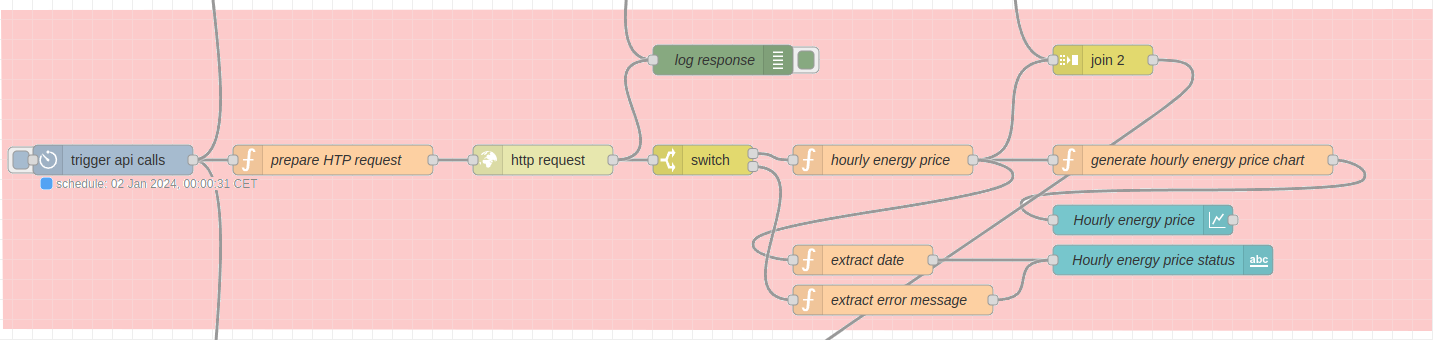
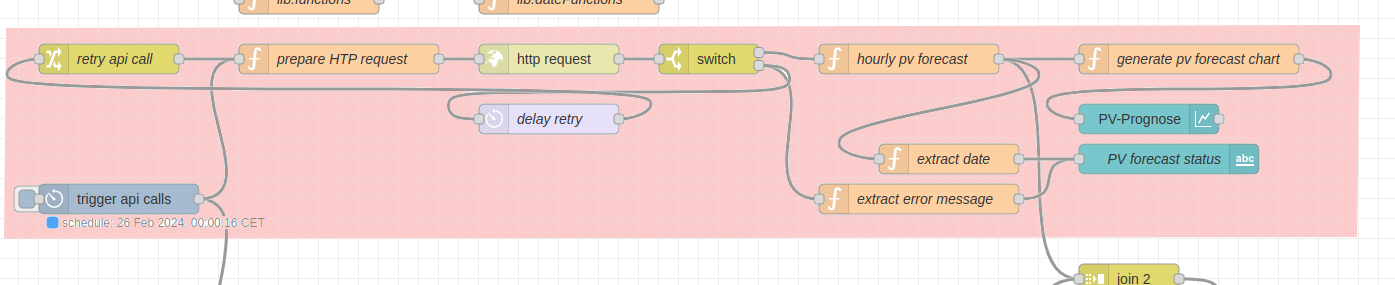
flow documentation updated

diff --git a/flow.md b/flow.md
@@ -4,13 +4,17 @@ Der folgende Abbildung des Flows repräsentiert den Inhalt der Datei [flow.json]
 
 Der Flow besteht im wesentlichen aus sechs Teilen, wobei Teil 1 bis 4 täglich direkt nach Mittnacht (00:00:31 Uhr) ausgeführt werden:
 
-- **Teil 1** beinhaltet die Abfrage der PV-Prognose
+- **Teil 1** sichert die die kostengünstigsten Stunden des vorangegangenen Tages, bevor diese mit den werte des aktuellen Tages überschrieben werden
   ![Flow1](flow1.png)
-- **Teil 2** beinhaltet die Abfrage der Strompreise
+- **Teil 2** beinhaltet die Abfrage der PV-Prognose
   ![Flow2](flow2.png)
-- **Teil 3** berechnet aus diesen Daten die stündlichen Kosten für den Betrieb der Wärmepumpe
+- **Teil 3** beinhaltet die Abfrage der Strompreise
   ![Flow3](flow3.png)
-- **Teil 4** setzt Standard-Werte für die kostengünstigsten Stunden, für den Fall, dass die Abfrage der PV-Prognose und/oder die Abfrage der Strompreise nicht erfolgreich sind
+- **Teil 4** berechnet aus diesen Daten die stündlichen Kosten für den Betrieb der Wärmepumpe und bestimmt die kostengünstigsten Stunden
   ![Flow4](flow4.png)
-- **Teil 5** erlaubt das Hinzufügen eines Stundenbereichs zu den bereits als kostengünstig klassifizierten Stunden. Das entspricht der Partyzeit-Funktion bei vielen Heizungssteuerungen. ![Flow5](flow5.png)
-- **Teil 6** führt zu jeder vollen Stunde die Prüfung durch, ob die aktuelle Stunde als kostengünstig klassifiziert ist und aktualisiert den Schaltzustand des Solid-State-Relays     ![Flow6](flow6.png)
+- **Teil 5** setzt Standard-Werte für die kostengünstigsten Stunden, für den Fall, dass die Abfrage der PV-Prognose und/oder die Abfrage der Strompreise nicht erfolgreich sind
+  ![Flow5](flow5.png)
+- **Teil 6** erlaubt das Hinzufügen eines Stundenbereichs zu den bereits als kostengünstig klassifizierten Stunden. Das entspricht der Partyzeit-Funktion bei vielen Heizungssteuerungen.
+  ![Flow6](flow6.png)
+- **Teil 7** führt zu jeder vollen Stunde die Prüfung durch, ob die aktuelle Stunde als kostengünstig klassifiziert ist und aktualisiert den Schaltzustand des Solid-State-Relays
+  ![Flow7](flow7.png)
